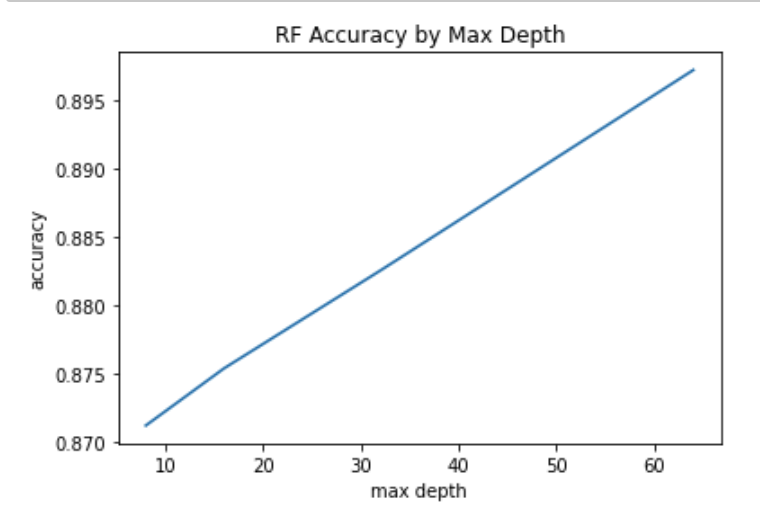
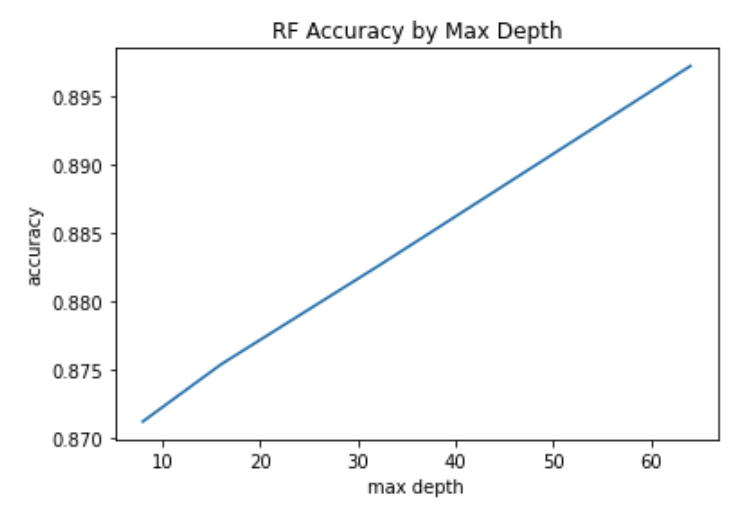
updated readme and edited max depth pic

diff --git a/README.md b/README.md
@@ -45,6 +45,8 @@ After loading the dataset into Jupyter Notebook using Pandas, I started my analy
 
 The dataframe has two columns, 'text' and 'humor'. I used .info(), .unique(), and .value_counts() to inspect the dataframe. 
 
+In all, there were 200k non-null rows. The text column contained short text strings, and the humor column contained either True or False boolean values. There were exactly 100k each of True and False labels.
+
 <p align = 'center'>
     <img src = 'https://github.com/coxem14/Capstone-2/blob/main/images/texts_df_info.png'>
 </p>
@@ -52,8 +54,6 @@ The dataframe has two columns, 'text' and 'humor'. I used .info(), .unique(), an
 <p align = 'center'>
     <img src = 'https://github.com/coxem14/Capstone-2/blob/main/images/texts_humor_value_counts.png'>
 </p>
-
-In all, there were 200k non-null rows. The text column contained short text strings, and the humor column contained either True or False boolean values. There were exactly 100k each of True and False labels.
 
 ### Word Clouds
 
@@ -343,6 +343,17 @@ The ROC AUC score for the model is 0.979.
 
 The model with the largest AUC: Multilayer Perceptron
 ```
+## Problem Words
+
+I wanted to look into the misclassified texts to see the words with which the model has the most trouble.
+I wrote a function that would return the corpus for the misclassifications (overall misclassifications, false positives, and false negatives). I could then use my make_word_cloud function to generate a word cloud easily.
+
+<p align = 'center'>
+    <img src = 'https://github.com/coxem14/Capstone-2/blob/main/images/misclass_wc.png'>
+</p>
+
+Top 10 words in misclassified texts: say, make, want, people, go, one, kid, day, know, thing
+
 
 ### KMeans
 
@@ -362,7 +373,9 @@ top_centroids = kmeans.cluster_centers_.argsort()[:,-1:-(n_features+1):-1]
 print("top features (words) for each cluster:")
 for num, centroid in enumerate(top_centroids):
     print(f"{num}, {', '.join(features[i] for i in centroid)}")
+```
 
+```
 top features (words) for each cluster:
 0, like, trump, new, just, people, does, don, photos, make, know
 1, did, say, hear, cross, road, got, man, chicken, know, guy
